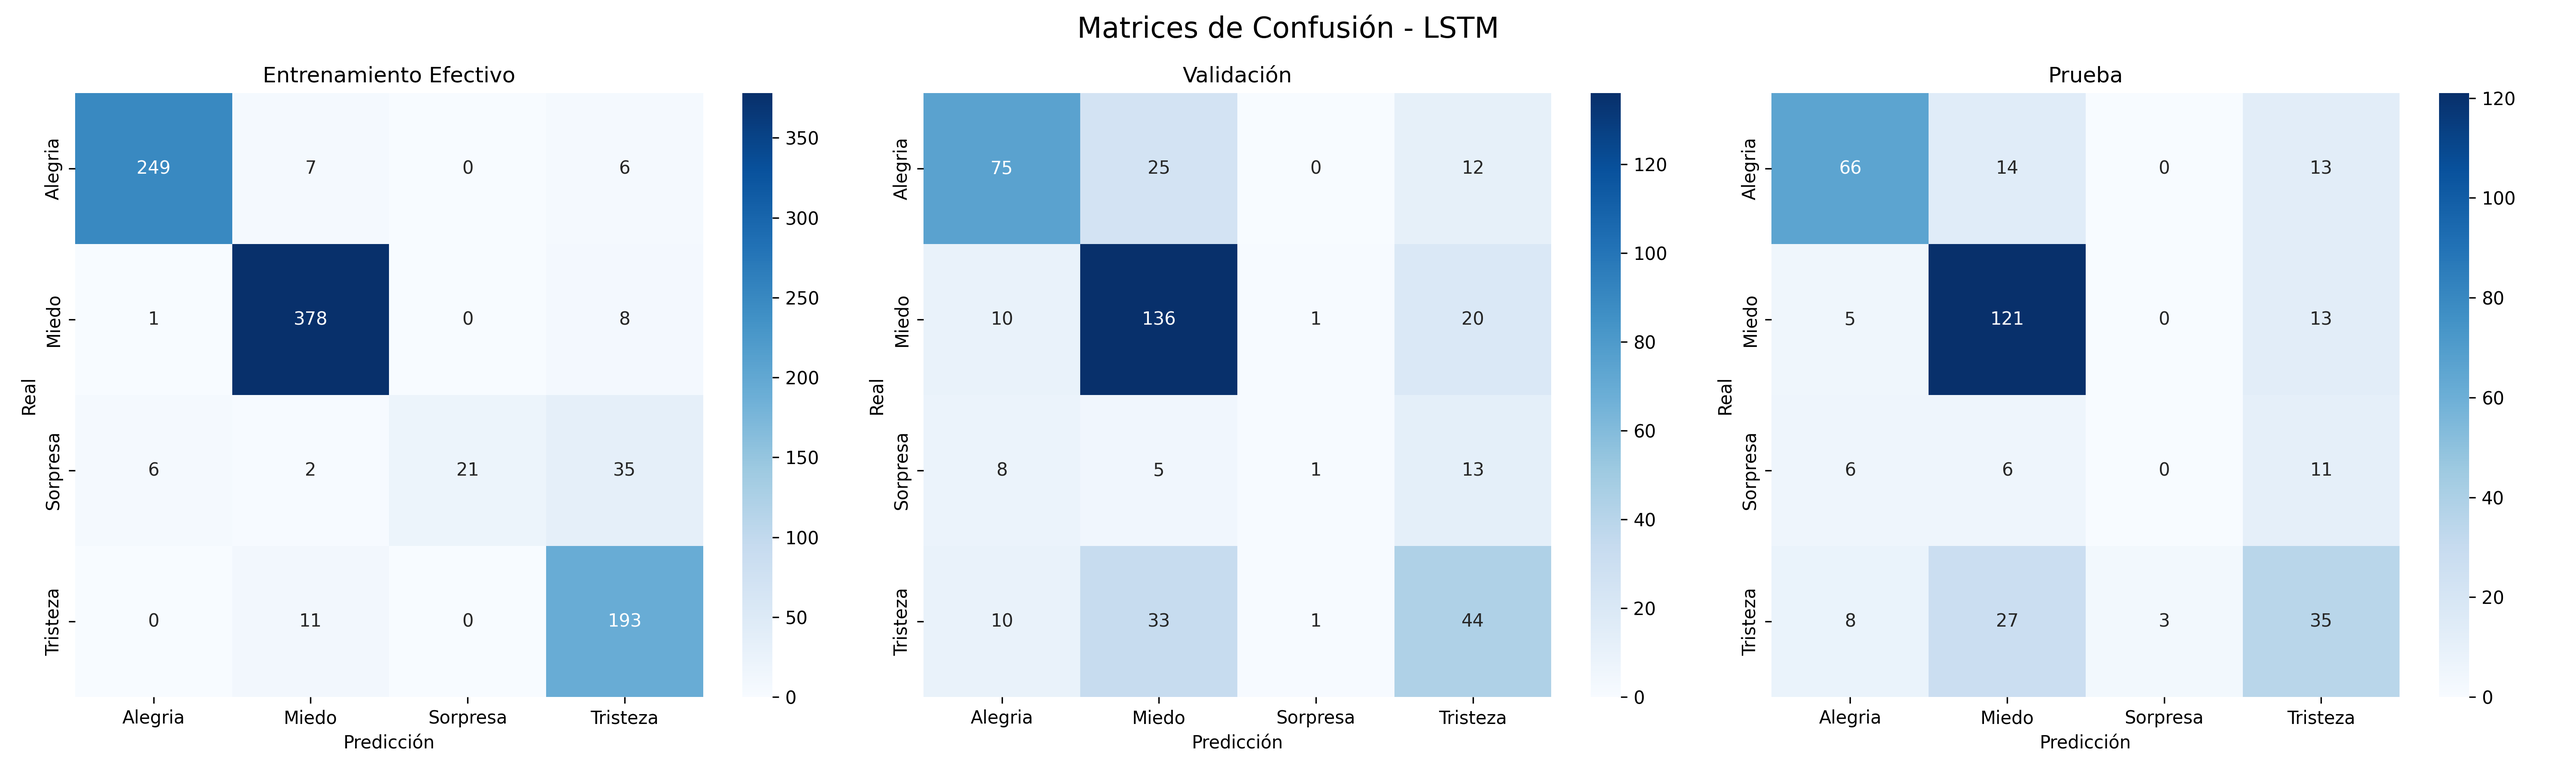
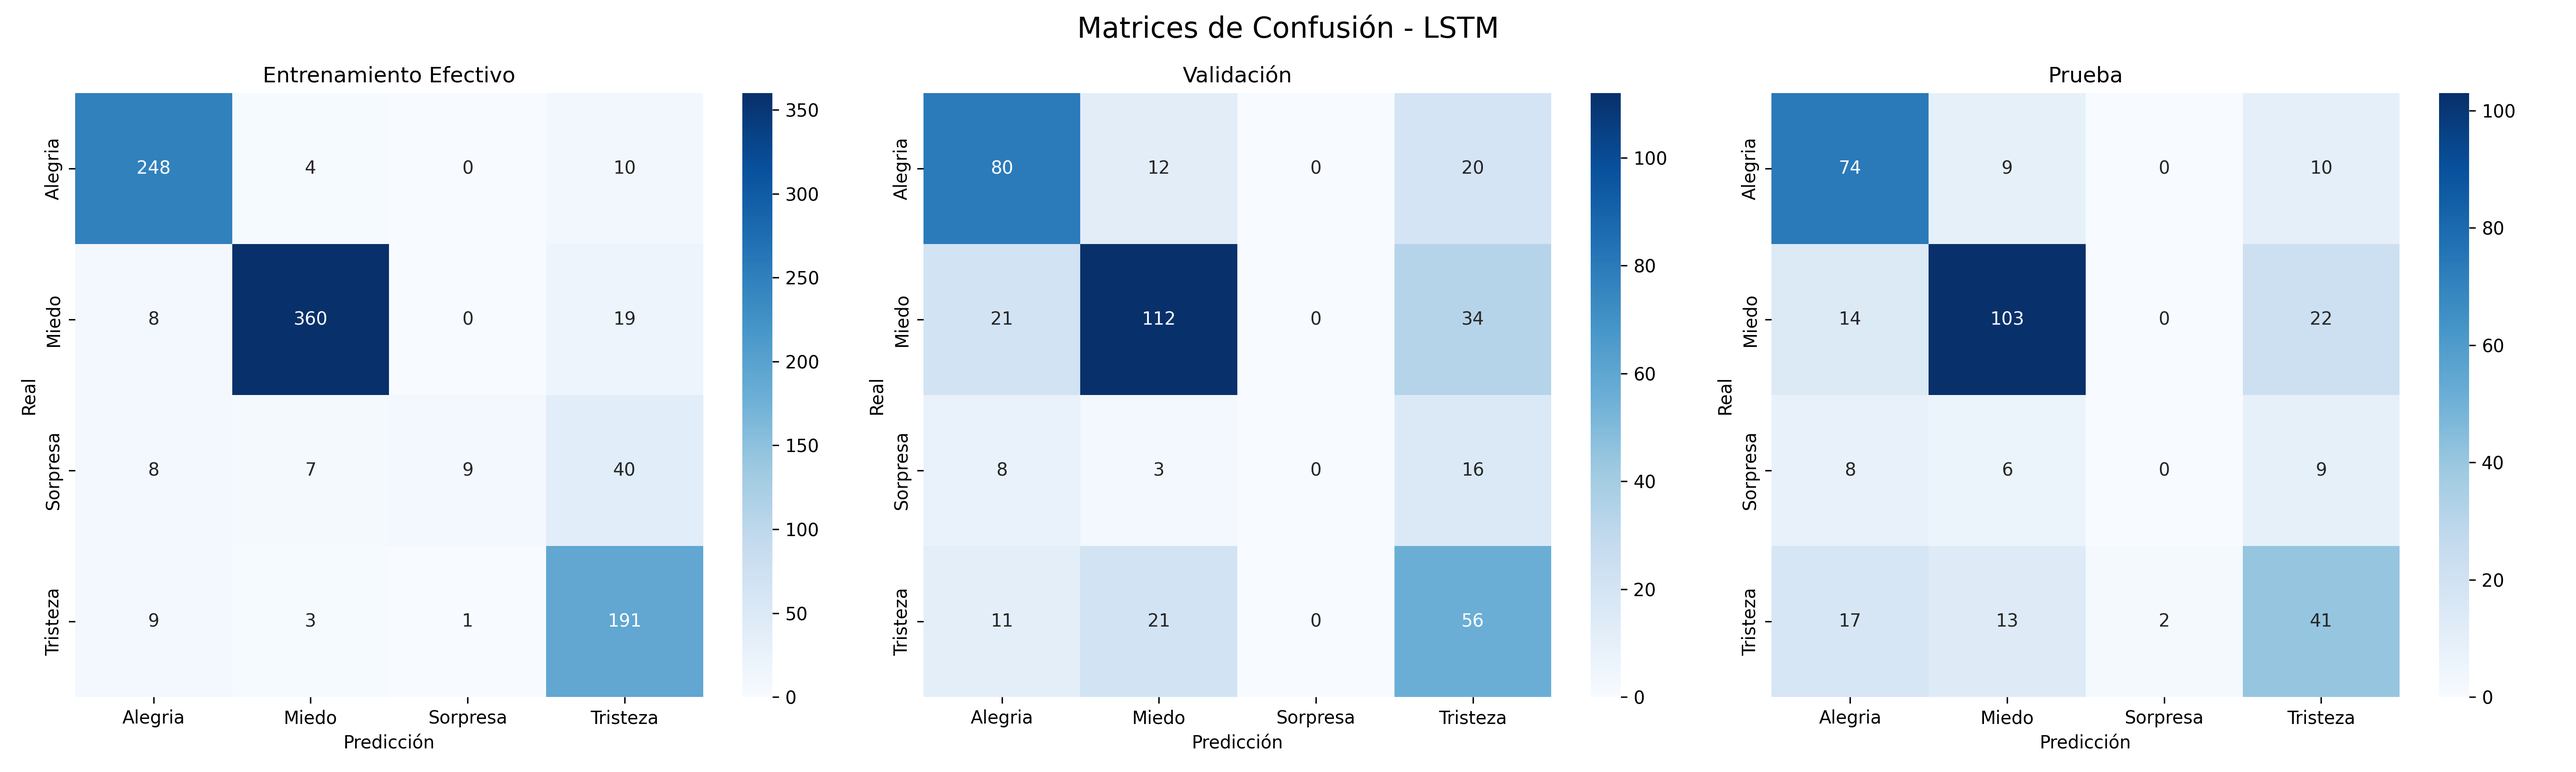
fix: quitar validacion cruzada y modificar reporte de resultados

diff --git a/modelado/redes-neuronales/redes_neuronales.py b/modelado/redes-neuronales/redes_neuronales.py
@@ -302,64 +302,9 @@ print("Función generica de entrenamiento de los modelos listo.")
 # #### Función de evaluación de los modelos con las métricas
 
 # %%
-from sklearn.model_selection import StratifiedKFold
 
-def cross_validate_model(model_class, model_name, X_train, y_train, vocab_size, embed_dim, num_classes, device, le, archivo_reporte):
-    skf = StratifiedKFold(n_splits=5, shuffle=True, random_state=42)
-    
-    acc_list, prec_list, rec_list, f1_list = [], [], [], []
-    print(f"\n--- Iniciando 5-Fold CV para {model_name} en Entrenamiento Efectivo ---")
-    
-    for fold, (train_idx, val_idx) in enumerate(skf.split(X_train, y_train)):
-        X_fold_train = torch.tensor(X_train[train_idx], dtype=torch.long)
-        y_fold_train = torch.tensor(y_train[train_idx], dtype=torch.long)
-        X_fold_val = torch.tensor(X_train[val_idx], dtype=torch.long)
-        y_fold_val = torch.tensor(y_train[val_idx], dtype=torch.long)
-        
-        train_dataset = TensorDataset(X_fold_train, y_fold_train)
-        val_dataset = TensorDataset(X_fold_val, y_fold_val)
-        
-        train_loader_fold = DataLoader(train_dataset, batch_size=BATCH_SIZE, shuffle=True)
-        val_loader_fold = DataLoader(val_dataset, batch_size=BATCH_SIZE, shuffle=False)
-        
-        model = model_class(vocab_size, embed_dim, num_classes).to(device)
-        print(f" Fold {fold+1}/5...")
-        model = train_model(model, train_loader_fold, val_loader_fold, device)
-        
-        model.eval()
-        preds_list = []
-        labels_list = []
-        with torch.no_grad():
-            for X_batch, y_batch in val_loader_fold:
-                X_batch = X_batch.to(device)
-                outputs = model(X_batch)
-                _, preds = torch.max(outputs, 1)
-                preds_list.extend(preds.cpu().numpy())
-                labels_list.extend(y_batch.numpy())
-                
-        acc = accuracy_score(labels_list, preds_list)
-        prec = precision_score(labels_list, preds_list, average='macro', zero_division=0)
-        rec = recall_score(labels_list, preds_list, average='macro', zero_division=0)
-        f1 = f1_score(labels_list, preds_list, average='macro', zero_division=0)
-        
-        acc_list.append(acc)
-        prec_list.append(prec)
-        rec_list.append(rec)
-        f1_list.append(f1)
-        
-    print(f"\n Resultados CV (5 Folds) para {model_name}:")
-    print(f"Accuracy media: {np.mean(acc_list):.4f}")
-    print(f"Precision media: {np.mean(prec_list):.4f}")
-    print(f"Recall media: {np.mean(rec_list):.4f}")
-    print(f"F1-Score media: {np.mean(f1_list):.4f}")
-    
-    with open(archivo_reporte, 'a', encoding='utf-8') as f:
-        f.write(f"## {model_name}\n\n")
-        f.write(f"### Resultados de Validación Cruzada (5-Folds en Entrenamiento Efectivo)\n")
-        f.write(f"- **Accuracy Media:** {np.mean(acc_list):.4f}\n")
-        f.write(f"- **Precision Media (macro):** {np.mean(prec_list):.4f}\n")
-        f.write(f"- **Recall Media (macro):** {np.mean(rec_list):.4f}\n")
-        f.write(f"- **F1-Score Media (macro):** {np.mean(f1_list):.4f}\n\n")
+
+
 
 
 from sklearn.metrics import precision_score, recall_score, f1_score, accuracy_score
@@ -507,8 +452,7 @@ with open(archivo_reporte, 'w', encoding='utf-8') as f:
 
 # CNN
 print("Evaluación de CNN")
-# Cross Validation
-cross_validate_model(CNNModel, "CNN", X_train, y_train, vocab_size, EMBEDDING_DIM, num_classes, device, le, archivo_reporte)
+
 
 # Entrenamiento Final
 print("\nEntrenando modelo CNN Final")
@@ -521,8 +465,7 @@ evaluate_and_plot_conjuntos(model_cnn, "CNN", train_loader, val_loader, test_loa
 
 # LSTM
 print("\nEvaluación de LSTM")
-# Cross Validation
-cross_validate_model(LSTMModel, "LSTM", X_train, y_train, vocab_size, EMBEDDING_DIM, num_classes, device, le, archivo_reporte)
+
 
 # Entrenamiento Final
 print("\nEntrenando modelo LSTM Final")

diff --git a/modelado/resultados_nn/reporte_redes_neuronales.md b/modelado/resultados_nn/reporte_redes_neuronales.md
@@ -4,25 +4,17 @@ Resultados de métricas de rendimiento para los modelos CNN y LSTM.
 
 ## CNN
 
-### Resultados de Validación Cruzada (5-Folds en Entrenamiento Efectivo)
-- **Accuracy Media:** 0.6772
-- **Precision Media (macro):** 0.6200
-- **Recall Media (macro):** 0.5205
-- **F1-Score Media (macro):** 0.5172
-
-## CNN
-
 ### Resultados en Entrenamiento Efectivo
-- **Accuracy:** 0.9989
-- **Precision (macro):** 0.9990
-- **Recall (macro):** 0.9994
-- **F1-Score (macro):** 0.9992
+- **Accuracy:** 0.9978
+- **Precision (macro):** 0.9987
+- **Recall (macro):** 0.9978
+- **F1-Score (macro):** 0.9983
 
 ```text
               precision    recall  f1-score   support
 
      Alegria       1.00      1.00      1.00       262
-       Miedo       1.00      1.00      1.00       387
+       Miedo       0.99      1.00      1.00       387
     Sorpresa       1.00      1.00      1.00        64
     Tristeza       1.00      1.00      1.00       204
 
@@ -35,63 +27,63 @@ weighted avg       1.00      1.00      1.00       917
 **AUC ROC (Entrenamiento Efectivo):**
 - Macro-average: 1.0000
 - Alegria: 1.0000
-- Miedo: 0.9999
+- Miedo: 1.0000
 - Sorpresa: 1.0000
 - Tristeza: 1.0000
 
 ### Resultados en Validación
-- **Accuracy:** 0.7183
-- **Precision (macro):** 0.6899
-- **Recall (macro):** 0.5702
-- **F1-Score (macro):** 0.5699
+- **Accuracy:** 0.7107
+- **Precision (macro):** 0.6992
+- **Recall (macro):** 0.5600
+- **F1-Score (macro):** 0.5668
 
 ```text
               precision    recall  f1-score   support
 
-     Alegria       0.73      0.76      0.75       112
-       Miedo       0.77      0.87      0.81       167
-    Sorpresa       0.67      0.07      0.13        27
-    Tristeza       0.59      0.58      0.59        88
+     Alegria       0.70      0.76      0.73       112
+       Miedo       0.76      0.90      0.83       167
+    Sorpresa       0.75      0.11      0.19        27
+    Tristeza       0.59      0.47      0.52        88
 
-    accuracy                           0.72       394
-   macro avg       0.69      0.57      0.57       394
-weighted avg       0.71      0.72      0.70       394
+    accuracy                           0.71       394
+   macro avg       0.70      0.56      0.57       394
+weighted avg       0.70      0.71      0.69       394
 
 ```
 
 **AUC ROC (Validación):**
-- Macro-average: 0.8633
-- Alegria: 0.8897
-- Miedo: 0.9071
-- Sorpresa: 0.8037
-- Tristeza: 0.8468
+- Macro-average: 0.8502
+- Alegria: 0.8818
+- Miedo: 0.9111
+- Sorpresa: 0.7634
+- Tristeza: 0.8378
 
 ### Resultados en Prueba
-- **Accuracy:** 0.7043
-- **Precision (macro):** 0.5634
-- **Recall (macro):** 0.5375
-- **F1-Score (macro):** 0.5299
+- **Accuracy:** 0.7317
+- **Precision (macro):** 0.5307
+- **Recall (macro):** 0.5578
+- **F1-Score (macro):** 0.5414
 
 ```text
               precision    recall  f1-score   support
 
-     Alegria       0.77      0.80      0.78        93
-       Miedo       0.77      0.91      0.83       139
-    Sorpresa       0.25      0.04      0.07        23
-    Tristeza       0.47      0.40      0.43        73
+     Alegria       0.78      0.82      0.80        93
+       Miedo       0.77      0.92      0.84       139
+    Sorpresa       0.00      0.00      0.00        23
+    Tristeza       0.58      0.49      0.53        73
 
-    accuracy                           0.70       328
-   macro avg       0.56      0.54      0.53       328
-weighted avg       0.66      0.70      0.68       328
+    accuracy                           0.73       328
+   macro avg       0.53      0.56      0.54       328
+weighted avg       0.67      0.73      0.70       328
 
 ```
 
 **AUC ROC (Prueba):**
-- Macro-average: 0.8777
-- Alegria: 0.9217
-- Miedo: 0.9528
-- Sorpresa: 0.8128
-- Tristeza: 0.8150
+- Macro-average: 0.8741
+- Alegria: 0.9322
+- Miedo: 0.9407
+- Sorpresa: 0.7960
+- Tristeza: 0.8201
 
 ### Gráficas de Evaluación Conjuntas
 
@@ -107,94 +99,86 @@ weighted avg       0.66      0.70      0.68       328
 
 ## LSTM
 
-### Resultados de Validación Cruzada (5-Folds en Entrenamiento Efectivo)
-- **Accuracy Media:** 0.6565
-- **Precision Media (macro):** 0.4831
-- **Recall Media (macro):** 0.5146
-- **F1-Score Media (macro):** 0.4965
-
-## LSTM
-
 ### Resultados en Entrenamiento Efectivo
-- **Accuracy:** 0.9171
-- **Precision (macro):** 0.9300
-- **Recall (macro):** 0.8003
-- **F1-Score (macro):** 0.8210
+- **Accuracy:** 0.8811
+- **Precision (macro):** 0.8764
+- **Recall (macro):** 0.7384
+- **F1-Score (macro):** 0.7349
 
 ```text
               precision    recall  f1-score   support
 
-     Alegria       0.97      0.95      0.96       262
-       Miedo       0.95      0.98      0.96       387
-    Sorpresa       1.00      0.33      0.49        64
-    Tristeza       0.80      0.95      0.87       204
+     Alegria       0.91      0.95      0.93       262
+       Miedo       0.96      0.93      0.95       387
+    Sorpresa       0.90      0.14      0.24        64
+    Tristeza       0.73      0.94      0.82       204
 
-    accuracy                           0.92       917
-   macro avg       0.93      0.80      0.82       917
-weighted avg       0.93      0.92      0.91       917
+    accuracy                           0.88       917
+   macro avg       0.88      0.74      0.73       917
+weighted avg       0.89      0.88      0.86       917
 
 ```
 
 **AUC ROC (Entrenamiento Efectivo):**
-- Macro-average: 0.9927
-- Alegria: 0.9972
-- Miedo: 0.9946
-- Sorpresa: 0.9872
-- Tristeza: 0.9905
+- Macro-average: 0.9839
+- Alegria: 0.9904
+- Miedo: 0.9900
+- Sorpresa: 0.9739
+- Tristeza: 0.9802
 
 ### Resultados en Validación
-- **Accuracy:** 0.6497
-- **Precision (macro):** 0.5598
+- **Accuracy:** 0.6294
+- **Precision (macro):** 0.4670
 - **Recall (macro):** 0.5053
-- **F1-Score (macro):** 0.5012
+- **F1-Score (macro):** 0.4810
 
 ```text
               precision    recall  f1-score   support
 
-     Alegria       0.73      0.67      0.70       112
-       Miedo       0.68      0.81      0.74       167
-    Sorpresa       0.33      0.04      0.07        27
-    Tristeza       0.49      0.50      0.50        88
+     Alegria       0.67      0.71      0.69       112
+       Miedo       0.76      0.67      0.71       167
+    Sorpresa       0.00      0.00      0.00        27
+    Tristeza       0.44      0.64      0.52        88
 
-    accuracy                           0.65       394
-   macro avg       0.56      0.51      0.50       394
-weighted avg       0.63      0.65      0.63       394
+    accuracy                           0.63       394
+   macro avg       0.47      0.51      0.48       394
+weighted avg       0.61      0.63      0.61       394
 
 ```
 
 **AUC ROC (Validación):**
-- Macro-average: 0.7943
-- Alegria: 0.8378
-- Miedo: 0.8413
-- Sorpresa: 0.7250
-- Tristeza: 0.7662
+- Macro-average: 0.8059
+- Alegria: 0.8468
+- Miedo: 0.8359
+- Sorpresa: 0.7470
+- Tristeza: 0.7878
 
 ### Resultados en Prueba
-- **Accuracy:** 0.6768
-- **Precision (macro):** 0.4957
-- **Recall (macro):** 0.5149
-- **F1-Score (macro):** 0.5032
+- **Accuracy:** 0.6646
+- **Precision (macro):** 0.4853
+- **Recall (macro):** 0.5246
+- **F1-Score (macro):** 0.5026
 
 ```text
               precision    recall  f1-score   support
 
-     Alegria       0.78      0.71      0.74        93
-       Miedo       0.72      0.87      0.79       139
+     Alegria       0.65      0.80      0.72        93
+       Miedo       0.79      0.74      0.76       139
     Sorpresa       0.00      0.00      0.00        23
-    Tristeza       0.49      0.48      0.48        73
+    Tristeza       0.50      0.56      0.53        73
 
-    accuracy                           0.68       328
-   macro avg       0.50      0.51      0.50       328
-weighted avg       0.63      0.68      0.65       328
+    accuracy                           0.66       328
+   macro avg       0.49      0.52      0.50       328
+weighted avg       0.63      0.66      0.64       328
 
 ```
 
 **AUC ROC (Prueba):**
-- Macro-average: 0.8462
-- Alegria: 0.9052
-- Miedo: 0.9026
-- Sorpresa: 0.7792
-- Tristeza: 0.7915
+- Macro-average: 0.8376
+- Alegria: 0.8930
+- Miedo: 0.8796
+- Sorpresa: 0.7728
+- Tristeza: 0.7974
 
 ### Gráficas de Evaluación Conjuntas
 
